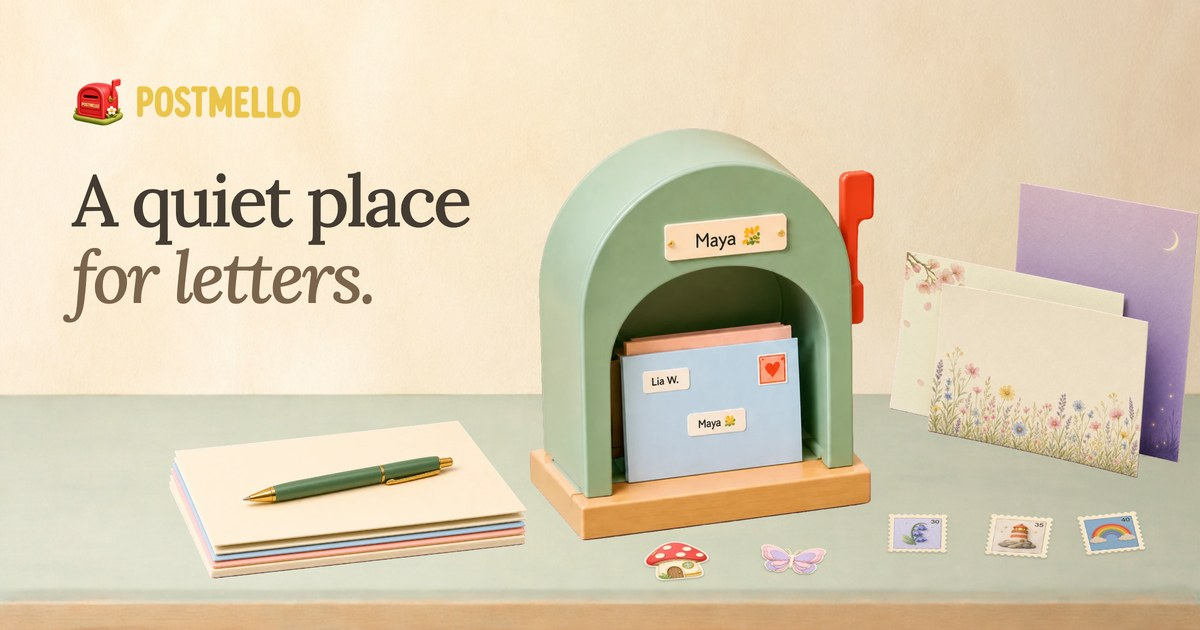
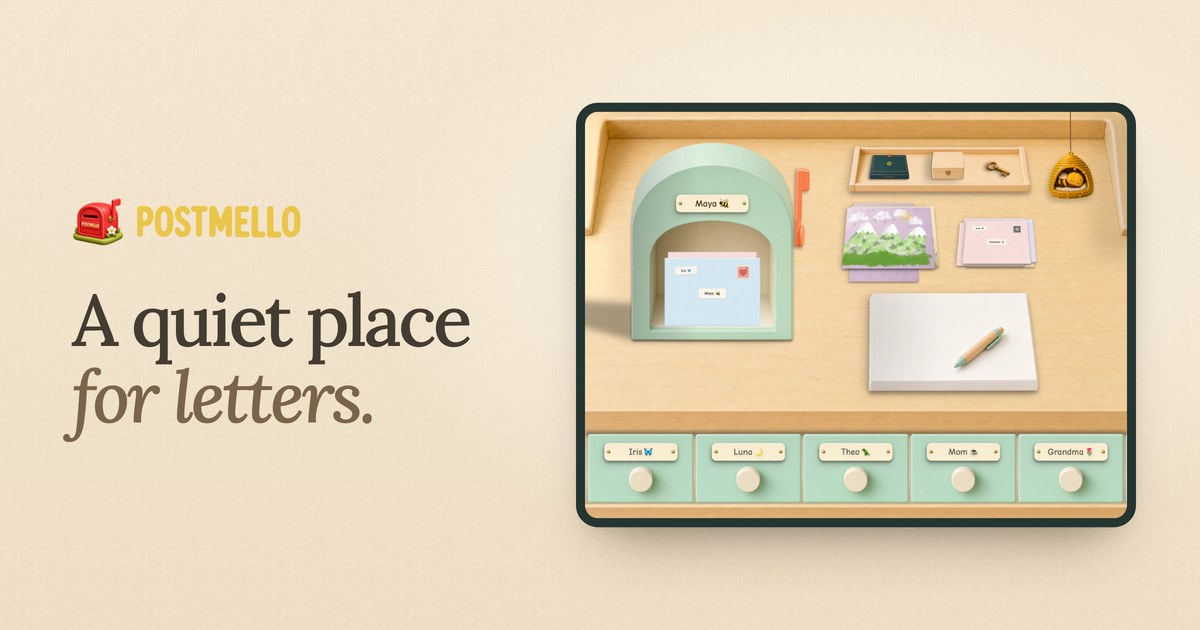
The share card is the desk in its iPad frame
A link to postmello.com unfurled as the AI still life the homepage no longer
shows. The card is now the hero's words beside the film's thin iPad frame
around the mint desk - the app's own original desk as a still, not a frame of
the film - on the hero's cream ground. Checked at 300 and 360px, where feeds
show it. Every page's og:image carries the new version, so a fresh share
fetches the new card.

diff --git a/scripts/og-card.html b/scripts/og-card.html
@@ -15,11 +15,13 @@
        loudly. When home.css changes a face, a token or the hero, change it
        here and rerun the script.
 
-       REBUILT 2026-09-15 as the new hero: the painted desk room as the ground,
-       the mailbox, paper rack, pen on its stack, stamps and stickers placed by
-       the same percentages home.css uses (.desk-mailbox and friends), and the
-       hero's own words. The desk-room rule and the object positions below are
-       copied from home.css; if those move, move these.
+       REBUILT 2026-09-22 with the homepage, when the hero became the desk
+       film: the hero's cream ground, its words, and the film's thin iPad frame
+       around the mint desk - the app's own original desk as a still
+       (assets/site/desk.webp), never a frame from the film. The AI still life
+       of the previous hero is gone from the card as it is from the page. The
+       ground and the frame are copied from home.css (.opening, .film-screen);
+       if those move, move these.
 
        Not linked from anywhere and not in the sitemap - it is a source file
        that happens to be HTML. -->
@@ -46,9 +48,12 @@
       font-family: var(--font-sans);
       color: var(--ink);
       font-synthesis: none;
-      /* .desk-room, verbatim: the wall and the mint desk, the desk's rear edge
-         at 62% of the height and its front lip from 96%. */
-      background: #f5e8cf url("../assets/site/desk-backdrop.png") center 53.42% / 100% 157.48% no-repeat;
+      /* .opening, verbatim: the cream ground with its light behind the film. */
+      background:
+        radial-gradient(ellipse 58% 70% at 71% 42%, #fffaf1 0%, #fffaf100 70%),
+        url("../assets/paper-grain.png") repeat,
+        linear-gradient(#f7e9d3, #f2e1c7);
+      background-size: auto, 128px, auto;
     }
     /* THE SIZE RULE - read this before changing any font-size here.
        Nothing on this card is sized against the other things on this card. It
@@ -59,7 +64,8 @@
        comfortably. Test, do not estimate: render, downsample to 300px and
        360px, and look. A line that is illegible there is not on the card. */
     .copy {
-      position: absolute; left: 72px; top: 76px; width: 560px; z-index: 1;
+      position: absolute; left: 72px; top: 50%; width: 470px; z-index: 1;
+      transform: translateY(-50%);
     }
     /* THE WORDMARK IS DRAWN - assets/wordmark.png, the same file the site
        header uses, no typeface at all. Sized by height, width auto: the aspect
@@ -72,10 +78,10 @@
     .mark .word { height: 32px; width: auto; display: block; }
     /* The hero's headline: Lora at the site's 500 (it loads no 700, and
        font-synthesis is off there too), the second line italic in the hero's
-       brown. Two lines, as the page breaks it. 72px: the mailbox's visible
-       left edge sits near x=535, and "place" needs real air before it - at
-       88 the word ran into the mailbox, at 80 it stopped 24px short and still
-       read as touching (Patrick, 2026-09-15). 72 leaves about 70px. */
+       brown. Two lines, as the page breaks it. 72px: "place" needs real air
+       before whatever sits to its right - at 88 the word ran into the old
+       card's mailbox, at 80 it stopped 24px short and still read as touching
+       (Patrick, 2026-09-15). The iPad keeps the same distance now. */
     h1 {
       font-family: var(--font-serif);
       font-weight: 500; font-size: 72px;
@@ -94,25 +100,16 @@
        caption beside the App Store badge on the site; with no badge on the
        card it read as a stray sentence, and it landed on the desk's rear edge
        above the paper stack. The platform is on the page and in the listing. */
-    /* .desk-objects, verbatim from home.css: positions are percentages of the
-       box, so the card's 1200x630 lays them out as the hero's 1320x650 does. */
-    .objects { position: absolute; inset: 0; }
-    .objects img { position: absolute; height: auto; }
-    .mailbox { left: 44%; bottom: 14%; width: 29%; }
-    .rack { right: 0; bottom: 24%; width: 26%; }
-    .stack { left: 14%; bottom: 8%; width: 30%; }
-    .stamp, .sticker {
-      transform: scaleY(.62) rotate(var(--turn, 0deg));
-      transform-origin: center bottom;
-      filter: drop-shadow(0 2px 1px #594b393d);
+    /* .film-screen, at the card's scale: the thin dark bezel and its shadow,
+       around the desk at 4:3. 560px wide leaves "place" its air. */
+    .ipad {
+      position: absolute; right: 64px; top: 50%; width: 560px;
+      transform: translateY(-50%);
+      border: 9px solid #253532; border-radius: 22px; overflow: hidden;
+      background: #253532;
+      box-shadow: 0 34px 56px -30px #3c2a1888, 0 12px 24px -16px #3c2a1844;
     }
-    .stamp { width: 5.5%; }
-    .stamp-one { left: 74%; bottom: 12%; --turn: -6deg; }
-    .stamp-two { left: 82%; bottom: 11.5%; --turn: 3deg; }
-    .stamp-three { left: 90%; bottom: 12%; --turn: -3deg; }
-    .sticker { width: 5.5%; }
-    .sticker-one { left: 54%; bottom: 8%; --turn: -8deg; }
-    .sticker-two { left: 63%; bottom: 9%; --turn: 7deg; }
+    .ipad img { display: block; width: 100%; height: auto; aspect-ratio: 4 / 3; object-fit: cover; }
   </style>
 </head>
 <body>
@@ -123,15 +120,6 @@
     </div>
     <h1>A quiet place<br /><em>for letters.</em></h1>
   </div>
-  <div class="objects">
-    <img class="mailbox" src="../assets/hero/p-mailbox.webp" alt="" />
-    <img class="rack" src="../assets/hero/p-rack.webp" alt="" />
-    <img class="stack" src="../assets/hero/p-stack.webp" alt="" />
-    <img class="stamp stamp-one" src="../assets/hero/p-stamp-bluebell.webp" alt="" />
-    <img class="stamp stamp-two" src="../assets/hero/p-stamp-lighthouse.webp" alt="" />
-    <img class="stamp stamp-three" src="../assets/hero/p-stamp-rainbow.webp" alt="" />
-    <img class="sticker sticker-one" src="../assets/hero/p-sticker-toadstoolhouse.webp" alt="" />
-    <img class="sticker sticker-two" src="../assets/hero/p-sticker-butterfly.webp" alt="" />
-  </div>
+  <div class="ipad"><img src="../assets/site/desk.webp" alt="" /></div>
 </body>
 </html>

diff --git a/index.html b/index.html
@@ -1,5 +1,5 @@
 <!doctype html>
-<html lang="en"><head><meta charset="utf-8"><meta name="viewport" content="width=device-width,initial-scale=1"><title>Postmello - A quiet place for letters.</title><meta name="description" content="Write and draw digital letters with friends and family. Staying in touch doesn’t have to start with texting."><link rel="icon" href="/assets/favicon.png"><meta property="og:image" content="https://postmello.com/assets/og-card.jpg?v=aeda4f73" />
+<html lang="en"><head><meta charset="utf-8"><meta name="viewport" content="width=device-width,initial-scale=1"><title>Postmello - A quiet place for letters.</title><meta name="description" content="Write and draw digital letters with friends and family. Staying in touch doesn’t have to start with texting."><link rel="icon" href="/assets/favicon.png"><meta property="og:image" content="https://postmello.com/assets/og-card.jpg?v=554f6526" />
 <meta property="og:url" content="https://postmello.com/" />
 <link rel="canonical" href="https://postmello.com/" />
 <meta property="og:site_name" content="Postmello" />

diff --git a/blog/designing-a-desk-not-an-app/index.html b/blog/designing-a-desk-not-an-app/index.html
@@ -10,7 +10,7 @@
   <meta property="og:title" content="A World Built for Childhood" />
   <meta property="og:description" content="A desk to explore, a world to make their own, and real friends to create for. The design choices that make Postmello a place built for children." />
   <meta property="og:type" content="article" />
-  <meta property="og:image" content="https://postmello.com/assets/og-card.jpg?v=aeda4f73" />
+  <meta property="og:image" content="https://postmello.com/assets/og-card.jpg?v=554f6526" />
   <meta property="og:url" content="https://postmello.com/blog/designing-a-desk-not-an-app/" />
   <meta property="og:site_name" content="Postmello" />
   <meta name="twitter:card" content="summary_large_image" />

diff --git a/blog/three-kinds-of-quiet/index.html b/blog/three-kinds-of-quiet/index.html
@@ -10,7 +10,7 @@
   <meta property="og:title" content="Three Kinds of Quiet" />
   <meta property="og:description" content="How Postmello protects three kinds of quiet: the quiet of making something, the quiet of having time to answer, and the quiet of leaving the tablet behind." />
   <meta property="og:type" content="article" />
-  <meta property="og:image" content="https://postmello.com/assets/og-card.jpg?v=aeda4f73" />
+  <meta property="og:image" content="https://postmello.com/assets/og-card.jpg?v=554f6526" />
   <meta property="og:url" content="https://postmello.com/blog/three-kinds-of-quiet/" />
   <meta property="og:site_name" content="Postmello" />
   <meta name="twitter:card" content="summary_large_image" />

diff --git a/safety.html b/safety.html
@@ -9,7 +9,7 @@
   <link rel="apple-touch-icon" href="assets/app-icon.png" />
   <meta property="og:title" content="Postmello - Safety by design" />
   <meta property="og:description" content="How Postmello keeps children safe: only approved friends, no way for strangers to find a child, no ads, and nothing sold to the child at the desk." />
-  <meta property="og:image" content="https://postmello.com/assets/og-card.jpg?v=aeda4f73" />
+  <meta property="og:image" content="https://postmello.com/assets/og-card.jpg?v=554f6526" />
   <meta property="og:url" content="https://postmello.com/safety" />
   <meta property="og:type" content="website" />
   <meta name="twitter:card" content="summary_large_image" />

diff --git a/blog/learning-the-desk-through-its-objects/index.html b/blog/learning-the-desk-through-its-objects/index.html
@@ -10,7 +10,7 @@
   <meta property="og:title" content="Learning the Desk Through Its Objects" />
   <meta property="og:description" content="Paper, drawers, envelopes and a mailbox give correspondence a place and each touch a consequence." />
   <meta property="og:type" content="article" />
-  <meta property="og:image" content="https://postmello.com/assets/og-card.jpg?v=aeda4f73" />
+  <meta property="og:image" content="https://postmello.com/assets/og-card.jpg?v=554f6526" />
   <meta property="og:url" content="https://postmello.com/blog/learning-the-desk-through-its-objects/" />
   <meta property="og:site_name" content="Postmello" />
   <meta name="twitter:card" content="summary_large_image" />

diff --git a/blog/a-friend-does-not-need-another-app/index.html b/blog/a-friend-does-not-need-another-app/index.html
@@ -10,7 +10,7 @@
   <meta property="og:title" content="A Friend Does Not Need Another App" />
   <meta property="og:description" content="Email in both directions, shared addresses and careful merging keep letters and friendships together." />
   <meta property="og:type" content="article" />
-  <meta property="og:image" content="https://postmello.com/assets/og-card.jpg?v=aeda4f73" />
+  <meta property="og:image" content="https://postmello.com/assets/og-card.jpg?v=554f6526" />
   <meta property="og:url" content="https://postmello.com/blog/a-friend-does-not-need-another-app/" />
   <meta property="og:site_name" content="Postmello" />
   <meta name="twitter:card" content="summary_large_image" />

diff --git a/blog/why-i-built-postmello/index.html b/blog/why-i-built-postmello/index.html
@@ -10,7 +10,7 @@
   <meta property="og:title" content="Why I Built Postmello" />
   <meta property="og:description" content="A request to borrow a phone became a place for independent friendships, creative letters and time away from the screen." />
   <meta property="og:type" content="article" />
-  <meta property="og:image" content="https://postmello.com/assets/og-card.jpg?v=aeda4f73" />
+  <meta property="og:image" content="https://postmello.com/assets/og-card.jpg?v=554f6526" />
   <meta property="og:url" content="https://postmello.com/blog/why-i-built-postmello/" />
   <meta property="og:site_name" content="Postmello" />
   <meta name="twitter:card" content="summary_large_image" />

diff --git a/blog/the-name-on-the-desk/index.html b/blog/the-name-on-the-desk/index.html
@@ -10,7 +10,7 @@
   <meta property="og:title" content="The Name on the Desk" />
   <meta property="og:description" content="Nicknames, hero icons and the names we give our friends make the desk personal while keeping its writer recognizable." />
   <meta property="og:type" content="article" />
-  <meta property="og:image" content="https://postmello.com/assets/og-card.jpg?v=aeda4f73" />
+  <meta property="og:image" content="https://postmello.com/assets/og-card.jpg?v=554f6526" />
   <meta property="og:url" content="https://postmello.com/blog/the-name-on-the-desk/" />
   <meta property="og:site_name" content="Postmello" />
   <meta name="twitter:card" content="summary_large_image" />

diff --git a/blog/a-letter-keeps-its-audience/index.html b/blog/a-letter-keeps-its-audience/index.html
@@ -10,7 +10,7 @@
   <meta property="og:title" content="A Letter Keeps Its Audience" />
   <meta property="og:description" content="Why Postmello has no forwarding action, and why a reply goes to the sender or the original group." />
   <meta property="og:type" content="article" />
-  <meta property="og:image" content="https://postmello.com/assets/og-card.jpg?v=aeda4f73" />
+  <meta property="og:image" content="https://postmello.com/assets/og-card.jpg?v=554f6526" />
   <meta property="og:url" content="https://postmello.com/blog/a-letter-keeps-its-audience/" />
   <meta property="og:site_name" content="Postmello" />
   <meta name="twitter:card" content="summary_large_image" />

diff --git a/blog/a-space-of-your-own/index.html b/blog/a-space-of-your-own/index.html
@@ -10,7 +10,7 @@
   <meta property="og:title" content="A Space of Your Own" />
   <meta property="og:description" content="The evolution from one desk to personal spaces, with familiar objects and room for imagination." />
   <meta property="og:type" content="article" />
-  <meta property="og:image" content="https://postmello.com/assets/og-card.jpg?v=aeda4f73" />
+  <meta property="og:image" content="https://postmello.com/assets/og-card.jpg?v=554f6526" />
   <meta property="og:url" content="https://postmello.com/blog/a-space-of-your-own/" />
   <meta property="og:site_name" content="Postmello" />
   <meta name="twitter:card" content="summary_large_image" />

diff --git a/blog/what-the-bee-knows/index.html b/blog/what-the-bee-knows/index.html
@@ -10,7 +10,7 @@
   <meta property="og:title" content="What the Bee Knows" />
   <meta property="og:description" content="How the mailbox, waking bee and connection notes tell the truth about a letter’s journey." />
   <meta property="og:type" content="article" />
-  <meta property="og:image" content="https://postmello.com/assets/og-card.jpg?v=aeda4f73" />
+  <meta property="og:image" content="https://postmello.com/assets/og-card.jpg?v=554f6526" />
   <meta property="og:url" content="https://postmello.com/blog/what-the-bee-knows/" />
   <meta property="og:site_name" content="Postmello" />
   <meta name="twitter:card" content="summary_large_image" />
